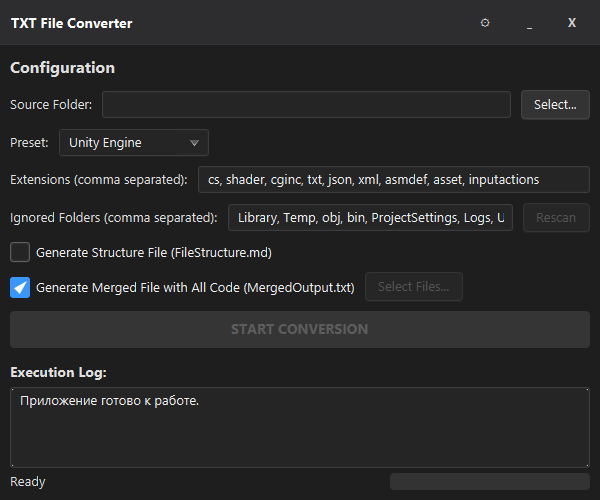
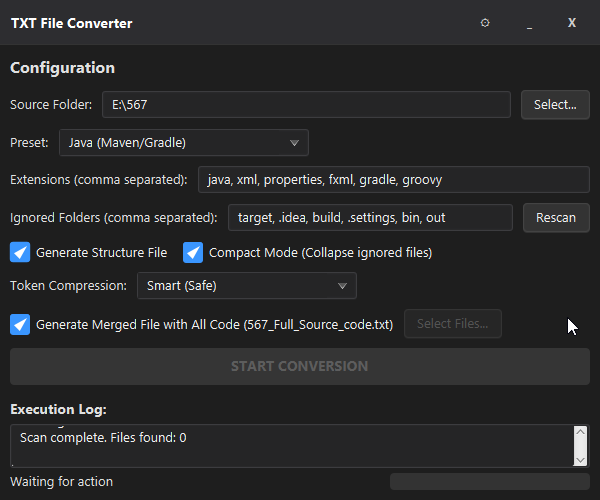
19

diff --git a/src/main/java/TartarusCore/TxtConverter/MainController.java b/src/main/java/TartarusCore/TxtConverter/MainController.java
@@ -5,7 +5,6 @@ import javafx.fxml.FXML;
 import javafx.fxml.FXMLLoader;
 import javafx.scene.Scene;
 import javafx.scene.control.*;
-import javafx.scene.input.DragEvent;
 import javafx.scene.input.TransferMode;
 import javafx.scene.layout.HBox;
 import javafx.scene.layout.VBox;
@@ -34,7 +33,7 @@ public class MainController {
     private Set<Path> filesSelectedForMerge = new HashSet<>();
 
     // UI Elements
-    @FXML private VBox rootBox; // Ссылка на корневой контейнер для D&D
+    @FXML private VBox rootBox;
     @FXML private Label lblTitle;
     @FXML private Label lblSourceDir;
     @FXML private Label lblPreset;
@@ -72,12 +71,10 @@ public class MainController {
         setupPresetListener();
         setupWindowDrag();
         setupCompressionCombo();
-        setupDragAndDrop(); // <--- Drag & Drop
+        setupDragAndDrop();
 
-        // Настраиваем зависимости чекбоксов
         compactStructureCheckbox.disableProperty().bind(generateStructureFileCheckbox.selectedProperty().not());
 
-        // Загрузка сохраненных настроек
         loadPreferences();
 
         LanguageManager.getInstance().addListener(this::updateTexts);
@@ -92,7 +89,6 @@ public class MainController {
 
         rootBox.setOnDragOver(event -> {
             if (event.getDragboard().hasFiles()) {
-                // Разрешаем перетаскивание, только если это папка
                 List<File> files = event.getDragboard().getFiles();
                 if (files.size() == 1 && files.get(0).isDirectory()) {
                     event.acceptTransferModes(TransferMode.COPY);
@@ -119,28 +115,23 @@ public class MainController {
     private void loadPreferences() {
         PreferenceManager prefs = PreferenceManager.getInstance();
 
-        // Путь
         String lastDir = prefs.getString(ProjectConstants.PREF_LAST_DIR, "");
         if (!lastDir.isEmpty() && Files.exists(Paths.get(lastDir))) {
             sourceDirField.setText(lastDir);
         }
 
-        // Пресет (важно установить его ДО загрузки расширений, иначе листенер пресета перезапишет поля)
         String lastPreset = prefs.getString(ProjectConstants.PREF_LAST_PRESET, "Unity Engine");
         if (presets.containsKey(lastPreset)) {
             presetComboBox.getSelectionModel().select(lastPreset);
         }
 
-        // Чекбоксы
         generateStructureFileCheckbox.setSelected(prefs.getBoolean(ProjectConstants.PREF_GEN_STRUCTURE, false));
         compactStructureCheckbox.setSelected(prefs.getBoolean(ProjectConstants.PREF_COMPACT_MODE, true));
         generateMergedFileCheckbox.setSelected(prefs.getBoolean(ProjectConstants.PREF_GEN_MERGED, true));
         compressionComboBox.setValue(prefs.getCompressionLevel());
 
-        // Если папка была загружена, обновляем имя выходного файла
         if (!sourceDirField.getText().isEmpty()) {
             updateMergedCheckboxText();
-            // Опционально: можно автоматически нажать Rescan, но лучше оставить пользователю выбор
         }
     }
 
@@ -156,7 +147,6 @@ public class MainController {
 
     private void setupCompressionCombo() {
         compressionComboBox.getItems().addAll(CompressionLevel.values());
-        // Значение устанавливается в loadPreferences, но на всякий случай дефолт:
         if (compressionComboBox.getValue() == null) {
             compressionComboBox.setValue(CompressionLevel.SMART);
         }
@@ -226,30 +216,25 @@ public class MainController {
     private void setupPresets() {
         presets.put("Manual", "");
 
-        // --- GameDev ---
+        // GameDev
         presets.put("Godot Engine", "gd, tscn, tres, gdshader, godot");
         presets.put("Unity Engine", "cs, shader, cginc, txt, json, xml, asmdef, asset, inputactions");
 
-        // --- Java ---
+        // Java
         presets.put("Java (Maven/Gradle)", "java, xml, properties, fxml, gradle, groovy");
 
-        // --- Web Reworked ---
-        // Чистый JS + Legacy
+        // Web
         presets.put("Web (JavaScript / Classic)", "js, mjs, html, css, json");
-        // Современный стек (TS, React, Vue, Svelte)
         presets.put("Web (TypeScript / React)", "ts, tsx, jsx, html, css, scss, less, json, vue, svelte");
+
         // Python
         presets.put("Python", "py, requirements.txt, yaml, yml, json");
 
-
-        // --- Ignored Folders ---
         ignoredFolderPresets.put("Manual", "");
-
         ignoredFolderPresets.put("Godot Engine", ".godot, export_presets, .import");
         ignoredFolderPresets.put("Unity Engine", "Library, Temp, obj, bin, ProjectSettings, Logs, UserSettings, .vs, .idea");
         ignoredFolderPresets.put("Java (Maven/Gradle)", "target, .idea, build, .settings, bin, out");
 
-        // Для веба добавляем специфичные папки
         String webIgnored = "node_modules, dist, build, .next, .nuxt, coverage, .git, .vscode, .idea";
         ignoredFolderPresets.put("Web (JavaScript / Classic)", webIgnored);
         ignoredFolderPresets.put("Web (TypeScript / React)", webIgnored);
@@ -257,14 +242,18 @@ public class MainController {
         ignoredFolderPresets.put("Python", "__pycache__, venv, env, .venv, .git, .idea, .vscode, build, dist, egg-info");
 
         presetComboBox.getItems().addAll(presets.keySet());
-        // Выбор дефолтного или последнего сохраненного происходит в loadPreferences
     }
 
     private void setupPresetListener() {
         presetComboBox.getSelectionModel().selectedItemProperty().addListener((options, oldValue, newValue) -> {
             if (newValue != null) {
-                extensionsField.setText(presets.get(newValue));
-                ignoredFoldersField.setText(ignoredFolderPresets.get(newValue));
+                // Если пресет Manual, мы НЕ перезаписываем поля, чтобы не стереть пользовательский ввод,
+                // если только старое значение не было пустым (первый запуск)
+                boolean isManual = "Manual".equals(newValue);
+                if (!isManual) {
+                    extensionsField.setText(presets.get(newValue));
+                    ignoredFoldersField.setText(ignoredFolderPresets.get(newValue));
+                }
 
                 String msg = String.format(LanguageManager.getInstance().getString("log.preset_selected"), newValue);
                 log(msg);
@@ -306,7 +295,6 @@ public class MainController {
         DirectoryChooser directoryChooser = new DirectoryChooser();
         directoryChooser.setTitle(LanguageManager.getInstance().getString("ui.source_dir"));
 
-        // Пытаемся открыть диалог на последней папке
         String currentPath = sourceDirField.getText();
         if (currentPath != null && !currentPath.isEmpty()) {
             File initialDir = new File(currentPath);
@@ -321,10 +309,59 @@ public class MainController {
         }
     }
 
+    // >>> ИЗМЕНЕННЫЙ МЕТОД: Добавлен вызов авто-детектора <<<
     private void setSourceDirectory(File dir) {
         sourceDirField.setText(dir.getAbsolutePath());
         log(String.format(LanguageManager.getInstance().getString("log.dir_selected"), dir.getAbsolutePath()));
-        handleRescan();
+
+        // Попытка авто-определения пресета
+        String detectedPreset = autoDetectPreset(dir.toPath());
+        if (detectedPreset != null) {
+            // Если определили, переключаем комбо-бокс.
+            // Это автоматически триггернет Listener, который обновит поля и запустит Rescan.
+            log("🤖 Auto-detected project type: " + detectedPreset);
+            presetComboBox.getSelectionModel().select(detectedPreset);
+        } else {
+            // Если не определили, просто запускаем сканирование с текущим пресетом
+            handleRescan();
+        }
+    }
+
+    // >>> НОВЫЙ МЕТОД: Логика определения типа проекта <<<
+    private String autoDetectPreset(Path root) {
+        // 1. Godot
+        if (Files.exists(root.resolve("project.godot"))) return "Godot Engine";
+
+        // 2. Unity
+        if (Files.exists(root.resolve("Assets")) && Files.exists(root.resolve("ProjectSettings"))) return "Unity Engine";
+
+        // 3. Java (Maven/Gradle)
+        if (Files.exists(root.resolve("pom.xml")) ||
+                Files.exists(root.resolve("build.gradle")) ||
+                Files.exists(root.resolve("build.gradle.kts"))) {
+            return "Java (Maven/Gradle)";
+        }
+
+        // 4. Python
+        if (Files.exists(root.resolve("requirements.txt")) ||
+                Files.exists(root.resolve("pyproject.toml")) ||
+                Files.exists(root.resolve("venv")) ||
+                Files.exists(root.resolve(".venv"))) {
+            return "Python";
+        }
+
+        // 5. Web (Complex check)
+        if (Files.exists(root.resolve("package.json"))) {
+            // Если есть package.json, это веб. Но какой?
+            // Проверяем признаки TypeScript
+            if (Files.exists(root.resolve("tsconfig.json")) ||
+                    Files.exists(root.resolve("vite.config.ts"))) {
+                return "Web (TypeScript / React)";
+            }
+            return "Web (JavaScript / Classic)";
+        }
+
+        return null; // Ничего не нашли, оставляем как есть
     }
 
     @FXML private void handleRescan() {
@@ -478,7 +515,6 @@ public class MainController {
     @FXML private void handleMinimize() { if (stage != null) stage.setIconified(true); }
 
     @FXML private void handleClose() {
-        // Сохраняем настройки перед выходом
         savePreferences();
         Platform.exit();
     }

diff --git a/README.md b/README.md
@@ -14,8 +14,8 @@ The application scans your project folder and creates an optimized single text f
 
 ---
 
-## 🌍 New: Multilingual Support
-The application now fully supports **English** and **Russian** languages.
+## 🌍 Multilingual Support
+The application fully supports **English** and **Russian** languages.
 *   **First Run:** You will be prompted to select your preferred language.
 *   **Settings:** You can change the language at any time using the Settings (⚙) menu.
 *   **Persistence:** Your choice is saved automatically for future sessions.
@@ -24,23 +24,29 @@ The application now fully supports **English** and **Russian** languages.
 
 ## 🔥 Key Features
 
+### 🚀 Smart Automation & UX (New!)
+*   **Drag & Drop:** Simply drag your project folder into the application window to start.
+*   **Auto-Detection:** The app automatically analyzes project files (e.g., `package.json`, `pom.xml`, `project.godot`) and selects the correct Preset for you.
+*   **Smart Persistence:** The app remembers your last used folder, settings, and window position.
+
 ### 🧠 Optimization for LLMs (AI)
-*   **Token Saving:** We replaced bulky separators with minimalistic headers (`--- FILE: Name.ext ---`). This allows fitting more useful code into the AI's context window.
+*   **Token Compression:**
+    *   **Smart:** Removes excessive empty lines.
+    *   **Maximum:** Removes all comments and formatting, turning code into a flat list of commands to save maximum tokens.
 *   **Smart Merging:** You can choose which files to include **fully** and which to keep as **stubs**.
     *   *Example:* If a file is found but not selected for merging, the report will contain: `(File content omitted for brevity...)`. This gives the AI context about the file's existence without wasting tokens on its content.
 
-### ⚡ Efficiency & UX
-*   **Smart Sorting:** The unified file is automatically named `_(ProjectName)_Full_Source_code.txt`. The `_` symbol ensures the file appears at the top of your file explorer.
-*   **Modern UI:** A custom dark interface (High Contrast Dark Theme) styled like modern IDEs (VS Code / JetBrains).
-*   **Feedback:** Built-in **Progress Bar** and status line allow real-time tracking of large project processing.
-
-### 🛡 Safety
+### ⚡ Performance & Safety
+*   **Turbo Scanning:** Optimized algorithm (`walkFileTree`) instantly skips massive ignored folders (like `node_modules` or `.git`), making scanning 100x faster for Web/Node.js projects.
 *   **Non-Destructive:** The app **never** modifies your source files. All results are saved in a separate `_ConvertedToTxt` folder inside your project.
-*   **Junk Ignoring:** Built-in presets automatically exclude system folders (`.git`, `node_modules`, `Library`, `target`, `.godot`), ensuring only clean code gets into the report.
 
 ### ⚙ Flexibility
-*   **Presets:** Ready-made settings for **Unity**, **Godot**, **Java (Maven/Gradle)**, **Web Frontend**.
-*   **Structure Map:** Optional generation of a `_FileStructure.md` file, which draws a folder tree of your project for better context understanding.
+*   **Presets:** Ready-made settings for:
+    *   **Unity Engine** / **Godot Engine**
+    *   **Java (Maven/Gradle)**
+    *   **Web (TypeScript/React)** / **Web (JavaScript/Legacy)**
+    *   **Python**
+*   **Structure Map:** Optional generation of a `_FileStructure.md` file (Tree or Flat list).
 
 ---
 
@@ -48,19 +54,18 @@ The application now fully supports **English** and **Russian** languages.
 
 1.  Run `TxtConverter.exe`.
 2.  (First time only) Select your language.
-3.  Click **"Select..."** and choose your project's root folder.
-4.  Choose a **Preset** (e.g., *Unity Engine* or *Godot Engine*). The app will auto-fill extensions and ignored folders.
-5.  Click **"Rescan"** to find files.
-6.  (Optional) Click **"Select Files..."** to check only the scripts you need in full. Others will be included as stubs.
-7.  Ensure **"Generate Merged File"** is checked.
-8.  Click the big blue button **"START CONVERSION"**.
-9.  Once done, check the created `_ConvertedToTxt` folder.
+3.  **Drag & Drop** your project folder into the window (or click "Select...").
+4.  The app will try to **Auto-Detect** the preset. If needed, change it manually.
+5.  Click **"Rescan"** (if not triggered automatically).
+6.  (Optional) Click **"Select Files..."** to check only the scripts you need in full.
+7.  Click the big blue button **"START CONVERSION"**.
+8.  Once done, check the created `_ConvertedToTxt` folder.
 
 ---
 
 ## 🛠 Build from Source
 
-The project is built on **Java 21** and **JavaFX 21**. It uses a layered architecture separating UI and background Tasks.
+The project is built on **Java 21** and **JavaFX 21**.
 
 ### Requirements
 *   JDK 21+
@@ -68,24 +73,10 @@ The project is built on **Java 21** and **JavaFX 21**. It uses a layered archite
 
 ### Build Commands
 
-1.  **Clone:**
-    ```bash
-    git clone https://github.com/YourName/TxtConverter.git
-    cd TxtConverter
-    ```
-
-2.  **Prepare Icons (Optional):**
-    *   Place `icon.ico` in the project root.
-    *   Place `icon.png` in `src/main/resources/TartarusCore/TxtConverter/`.
-
-3.  **Build (Create .exe):**
-    ```bash
-    mvn clean package
-    ```
-    Maven will download dependencies, build a "fat-jar", and use `jpackage` to create a native executable image.
-
-4.  **Result:**
-    The ready-to-use application will be in: `target/jpackage/TxtConverter/`
+```bash
+mvn clean package
+```
+The ready-to-use application will be in: `target/jpackage/TxtConverter/`
 
 ---
 
@@ -100,58 +91,43 @@ The project is built on **Java 21** and **JavaFX 21**. It uses a layered archite
 
 ---
 
-## 🌍 Новое: Мультиязычность
-Приложение теперь полностью поддерживает **Русский** и **Английский** языки.
-*   **Первый запуск:** Программа предложит выбрать удобный язык.
-*   **Настройки:** Вы можете сменить язык в любой момент через меню Настроек (⚙).
-*   **Память:** Ваш выбор сохраняется автоматически для будущих запусков.
+## 🌍 Мультиязычность
+Приложение полностью поддерживает **Русский** и **Английский** языки.
+*   **Память:** Ваш выбор языка и настроек сохраняется автоматически.
 
 ---
 
 ## 🔥 Ключевые возможности
 
+### 🚀 Автоматизация и Удобство (New!)
+*   **Drag & Drop:** Просто перетащите папку проекта в окно программы.
+*   **Авто-определение:** Приложение само находит ключевые файлы (`project.godot`, `pom.xml`, `package.json` и др.) и выставляет нужный пресет.
+*   **Сохранение настроек:** Программа запоминает последнюю папку, пресет и галочки настроек.
+
 ### 🧠 Оптимизация для LLM (ИИ)
-*   **Экономия токенов:** Мы заменили громоздкие разделители на минималистичные заголовки (`--- FILE: Name.ext ---`). Это позволяет вместить больше полезного кода в контекстное окно нейросети.
-*   **Умное слияние:** Вы можете выбрать, какие файлы включить в отчет **полностью**, а какие оставить в виде **заглушек**.
-    *   *Пример:* Если файл не выбран для слияния, в отчете появится строка: `(Содержимое файла опущено для краткости...)`. Это дает ИИ контекст о существовании файла, не тратя токены на его содержимое.
+*   **Сжатие токенов:**
+    *   **Умное:** Удаляет лишние пустые строки.
+    *   **Максимум:** Удаляет комментарии и форматирование, максимально экономя контекст нейросети.
+*   **Умное слияние:** Выбор файлов, которые нужны **полностью**, и файлов, которые нужны только как **заглушки** (для контекста).
 
-### ⚡ Эффективность и Удобство
-*   **Умная сортировка:** Единый файл теперь автоматически именуется как `_(ИмяПроекта)_Full_Source_code.txt`. Символ `_` в начале гарантирует, что файл всегда будет первым в списке проводника.
-*   **Современный UI:** Темный интерфейс (High Contrast Dark Theme) в стиле современных IDE (VS Code / JetBrains).
-*   **Обратная связь:** Встроенный **Progress Bar** и статусная строка позволяют отслеживать процесс обработки больших проектов в реальном времени.
+### ⚡ Производительность
+*   **Турбо-сканирование:** Новый алгоритм мгновенно пропускает тяжелые папки (вроде `node_modules`), ускоряя работу с Web-проектами в сотни раз.
+*   **Безопасность:** Результаты сохраняются в отдельную папку `_ConvertedToTxt`, исходники не затрагиваются.
 
-### 🛡 Безопасность
-*   **Non-Destructive:** Приложение **никогда** не меняет исходные файлы. Все результаты сохраняются в отдельную папку `_ConvertedToTxt` внутри вашего проекта.
-*   **Игнорирование мусора:** Встроенные пресеты автоматически исключают системные папки (`.git`, `node_modules`, `Library`, `target`, `.godot`), чтобы в отчет попадал только чистый код.
-
-### ⚙ Гибкая настройка
-*   **Пресеты:** Готовые настройки для **Unity**, **Godot**, **Java (Maven/Gradle)**, **Web Frontend**.
-*   **Древовидный выбор:** Удобное меню выбора файлов с группировкой по расширениям.
-*   **Структура проекта:** Опциональная генерация файла `_FileStructure.md`, который рисует дерево папок вашего проекта.
+### ⚙ Пресеты
+*   **GameDev:** Unity, Godot.
+*   **Web:** TypeScript (Modern), JavaScript (Classic).
+*   **Backend:** Java, Python.
 
 ---
 
 ## 🚀 Как использовать
 
 1.  Запустите `TxtConverter.exe`.
-2.  (Только в первый раз) Выберите язык интерфейса.
-3.  Нажмите **"Выбрать..."** и укажите корневую папку вашего проекта.
-4.  Выберите **Пресет** (например, *Unity Engine* или *Godot Engine*).
-5.  Нажмите **"Пересканировать"**, чтобы увидеть список найденных файлов.
-6.  (Опционально) Нажмите **"Выбрать файлы..."**, чтобы отметить галочками только те скрипты, которые нужны вам в полном объеме. Остальные файлы будут добавлены в отчет как заглушки.
-7.  Убедитесь, что галочка **"Создавать единый файл..."** включена.
-8.  Нажмите большую синюю кнопку **"НАЧАТЬ КОНВЕРТАЦИЮ"**.
-9.  По завершении зайдите в появившуюся папку `_ConvertedToTxt` и заберите готовый файл.
-
----
-
-## 💻 Технологический стек
-
-*   **Язык:** Java 21
-*   **UI Framework:** JavaFX 21 (FXML + CSS Styling)
-*   **Concurrency:** JavaFX `Task<V>` API
-*   **Build System:** Maven
-    *   `jpackage-maven-plugin`: Создание самодостаточного установщика/экзешника (JRE включена внутрь).
+2.  **Перетащите папку** проекта в окно (или нажмите "Выбрать...").
+3.  Приложение автоматически определит тип проекта (Пресет).
+4.  Нажмите **"Начать конвертацию"**.
+5.  Заберите готовый файл в папке `_ConvertedToTxt`.
 
 ---
 
